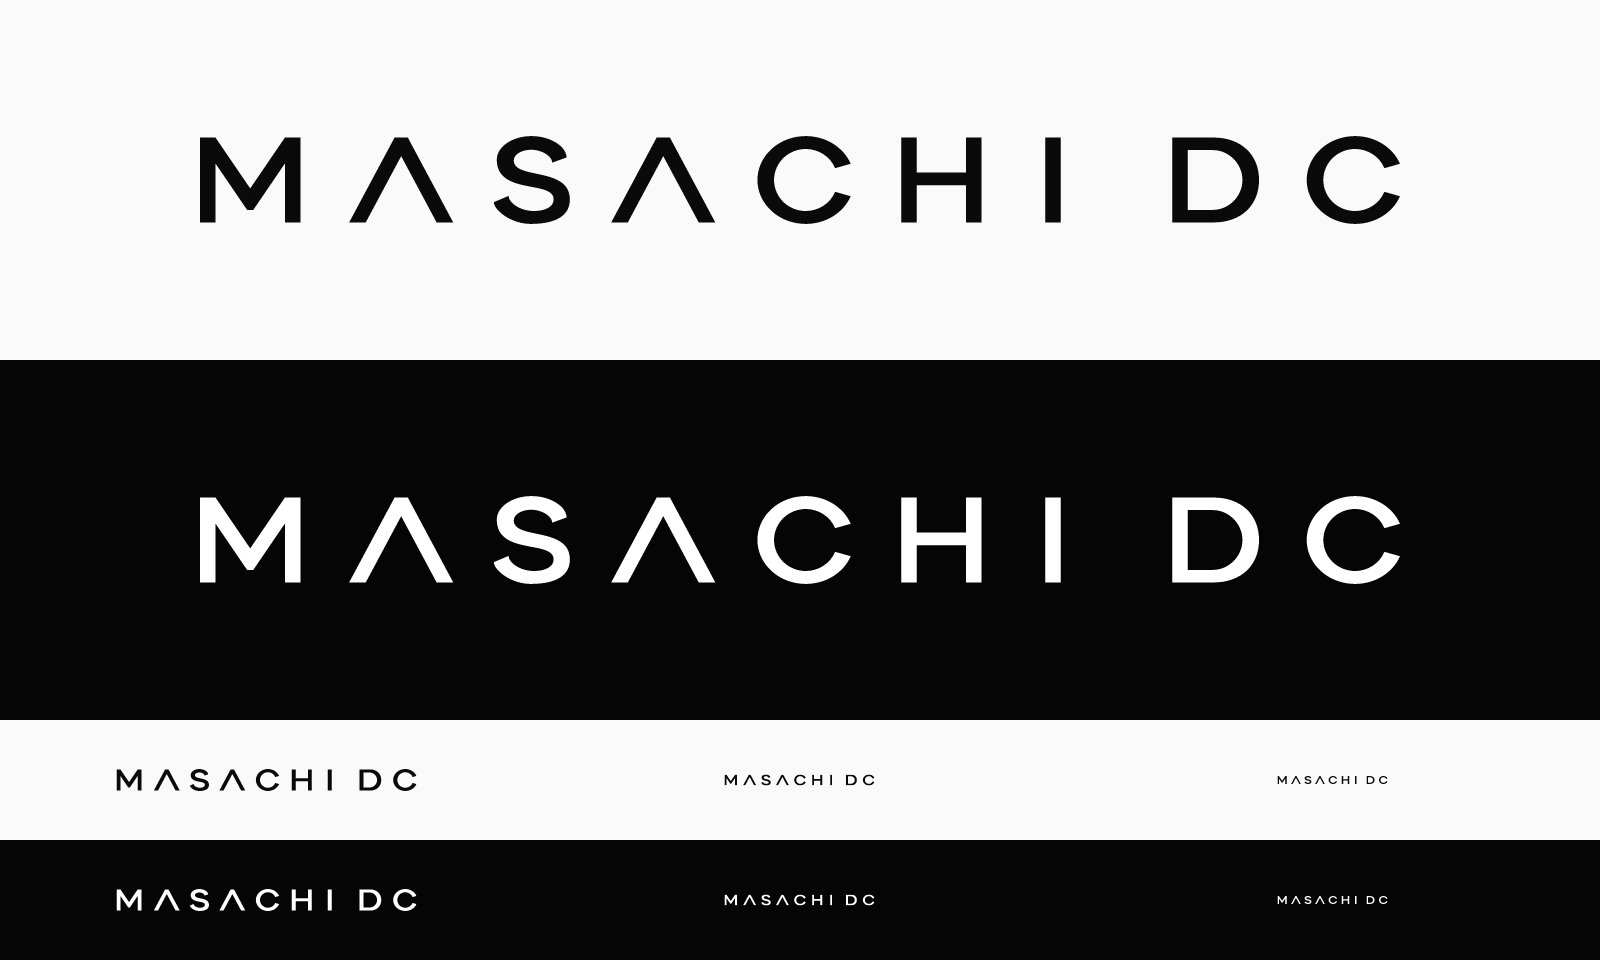
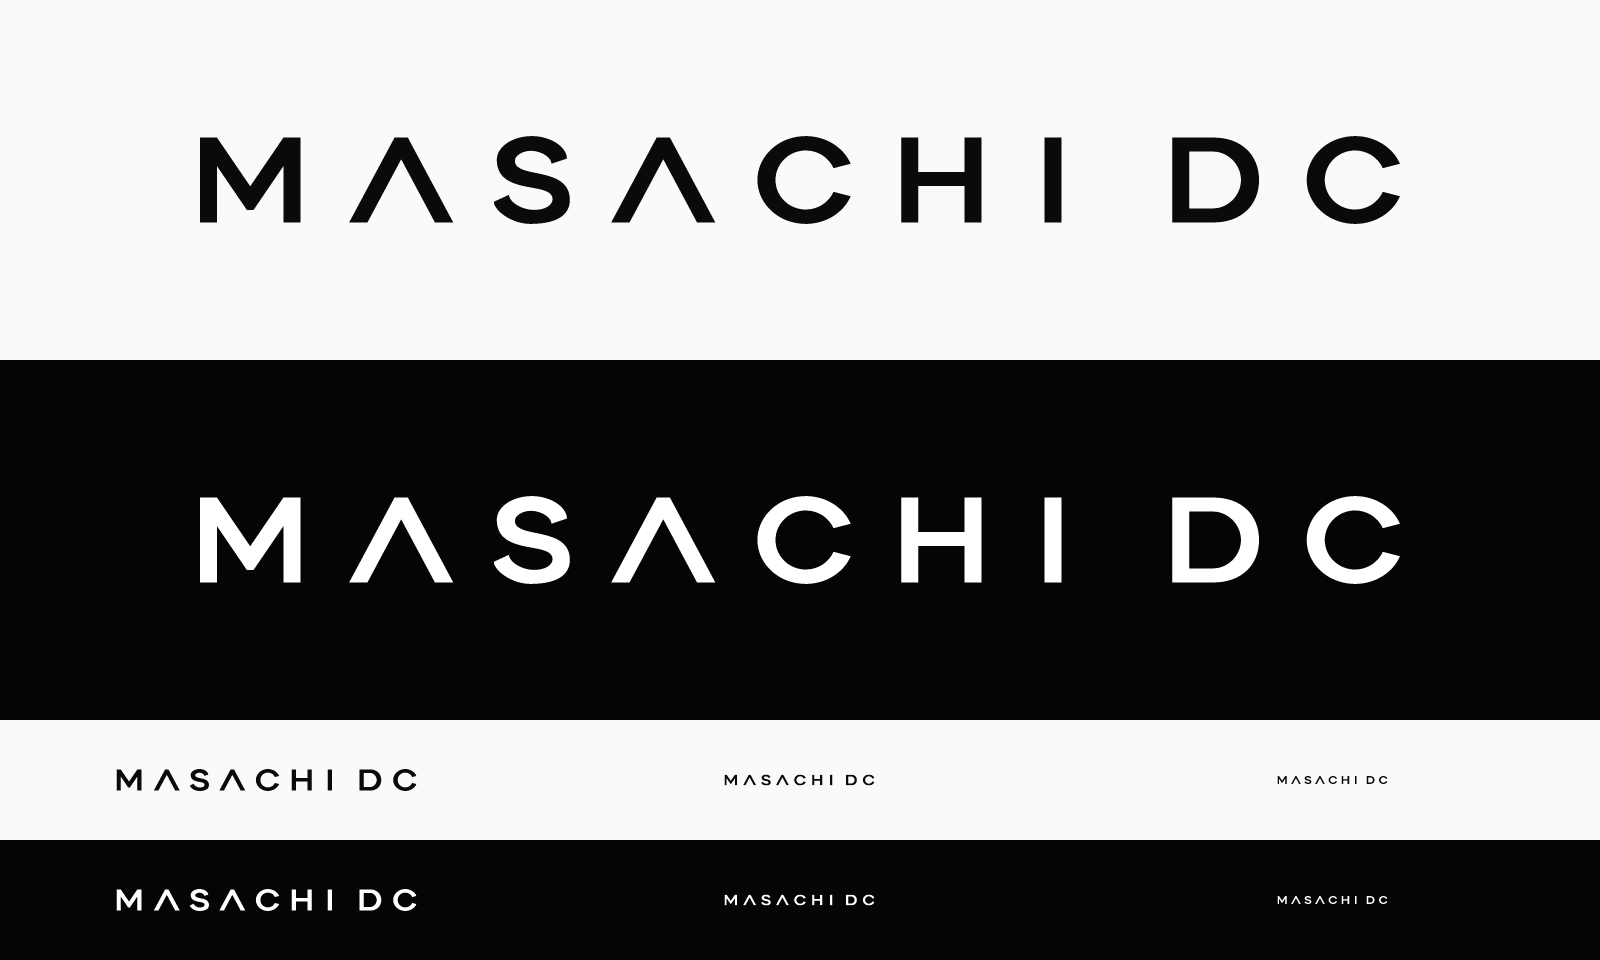
polish: bolder wordmark, 1.25x larger in header and footer
- Every stroke +2 units (stems 21 -> 23, diagonals ~21.8 perpendicular,
  horizontals 19, curves 24.5/19.5), growing inward so outer shapes,
  widths and spacing stay put. S refit to an evenly emboldened target.
- I recentred on its old position so the word space stays at 150.
- Site mark height 12px -> 15px (sm 10px -> 12px).
- brand/ SVGs and preview regenerated.

Changed region(s): [[0.3125, 0.5312, 0.3438, 0.5938], [0.3125, 0.1562, 0.3438, 0.2188]]

diff --git a/src/app/components/Wordmark.tsx b/src/app/components/Wordmark.tsx
@@ -6,15 +6,15 @@ import { SiteLink } from './SiteLink';
  * brand/masachi-dc-wordmark.svg (viewBox units: cap height 115, overshoot 2).
  */
 const GLYPHS = [
-  'M0 2L21 2L68 70.9L115 2L136 2L136 117L115 117L115 37.2L72.2 100L63.8 100L21 37.2L21 117L0 117Z',
-  'M202 117L263.5 2L281.5 2L343 117L320.5 117L272.5 27.2L224.5 117Z',
-  'M496.5 29C496.5 14.5 475.1 0 449 0C423.1 0 402 14.4 402 32C402 80.6 479 59 479 86C479 95.3 468.4 101.5 452.5 101.5C433.5 101.5 418 90.2 418 81L398 89.5C398 99.8 420.5 119 448 119C482.4 119 501 107.5 501 86C501 41 425 59.5 425 33C425 25 435.6 18.5 448.5 18.5C462.8 18.5 477 27.2 477 36Z',
-  'M557 117L618.5 2L636.5 2L698 117L675.5 117L627.5 27.2L579.5 117Z',
-  'M881.4 37.5A65.5 59.5 0 1 0 881.4 81.5L860.3 75.5A43 42 0 1 1 860.3 43.5Z',
-  'M950 2L971 2L971 49.5L1037.5 49.5L1037.5 2L1058.5 2L1058.5 117L1037.5 117L1037.5 66.5L971 66.5L971 117L950 117Z',
-  'M1145 2L1166 2L1166 117L1145 117Z',
-  'M1317 2L1373 2C1409.9 2 1434.5 25 1434.5 59.5C1434.5 94 1409.9 117 1373 117L1317 117ZM1338 19L1338 100L1372 100C1393.6 100 1412 81.4 1412 59.5C1412 37.6 1393.6 19 1372 19Z',
-  'M1625.4 37.5A65.5 59.5 0 1 0 1625.4 81.5L1604.3 75.5A43 42 0 1 1 1604.3 43.5Z',
+  'M0 2L23 2L68 68L113 2L136 2L136 117L113 117L113 40.7L72.6 100L63.4 100L23 40.7L23 117L0 117Z',
+  'M202 117L263.5 2L281.5 2L343 117L318.2 117L272.5 31.5L226.8 117Z',
+  'M497 30.5C497 15.2 475.6 0 449.5 0C423.4 0 402 14.4 402 32C402 81.8 477.5 60.4 477.5 85.5C477.5 93.8 467 100 453 100C434 100 418.5 88.1 418.5 79.5L398 89C398 100.4 421.8 119 447.5 119C482.3 119 501 107.6 501 86.5C501 39.9 426.5 58.4 426.5 33.5C426.5 26.5 436.8 20 448 20C462 20 476 28.8 476 37.5Z',
+  'M557 117L618.5 2L636.5 2L698 117L673.2 117L627.5 31.5L581.8 117Z',
+  'M881.4 37.5A65.5 59.5 0 1 0 881.4 81.5L858.1 75.5A41 40 0 1 1 858.1 43.5Z',
+  'M950 2L973 2L973 48.5L1035.5 48.5L1035.5 2L1058.5 2L1058.5 117L1035.5 117L1035.5 67.5L973 67.5L973 117L950 117Z',
+  'M1144 2L1167 2L1167 117L1144 117Z',
+  'M1317 2L1373 2C1409.9 2 1434.5 25 1434.5 59.5C1434.5 94 1409.9 117 1373 117L1317 117ZM1340 21L1340 98L1372 98C1392.5 98 1410 80.3 1410 59.5C1410 38.7 1392.5 21 1372 21Z',
+  'M1625.4 37.5A65.5 59.5 0 1 0 1625.4 81.5L1602.1 75.5A41 40 0 1 1 1602.1 43.5Z',
 ];
 
 /**
@@ -32,7 +32,7 @@ export function Wordmark({
   onNavigate?: () => void;
 }) {
   const color = tone === 'dark' ? 'text-ink' : 'text-bone';
-  const height = size === 'md' ? 'h-3' : 'h-2.5';
+  const height = size === 'md' ? 'h-3.75' : 'h-3';
 
   return (
     <SiteLink
